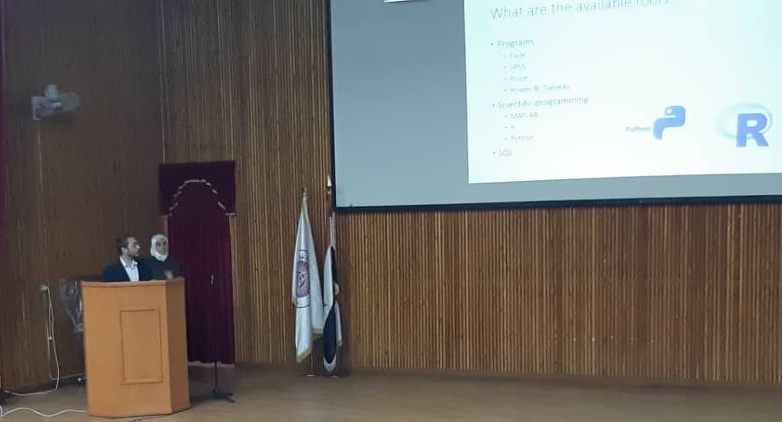
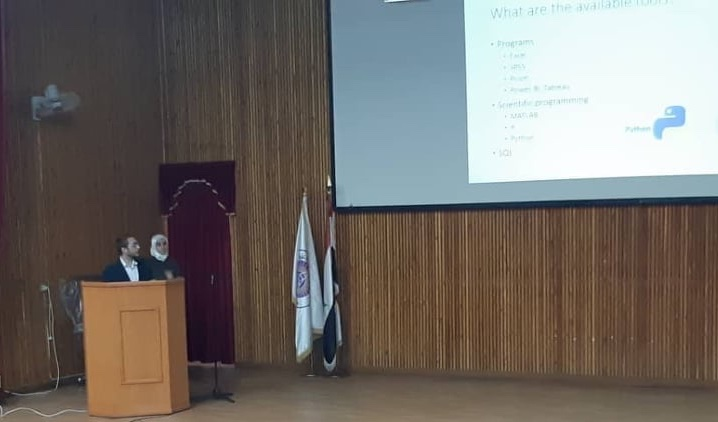
Updates

diff --git a/_pages/about.md b/_pages/about.md
@@ -2,7 +2,7 @@
 layout: about
 title: About
 permalink: /
-subtitle: Doctoral researcher @ CISPA | RTG Nx Models | UdS
+subtitle: Doctoral researcher @ CISPA | RTG Nx Models
 
 profile:
   align: right
